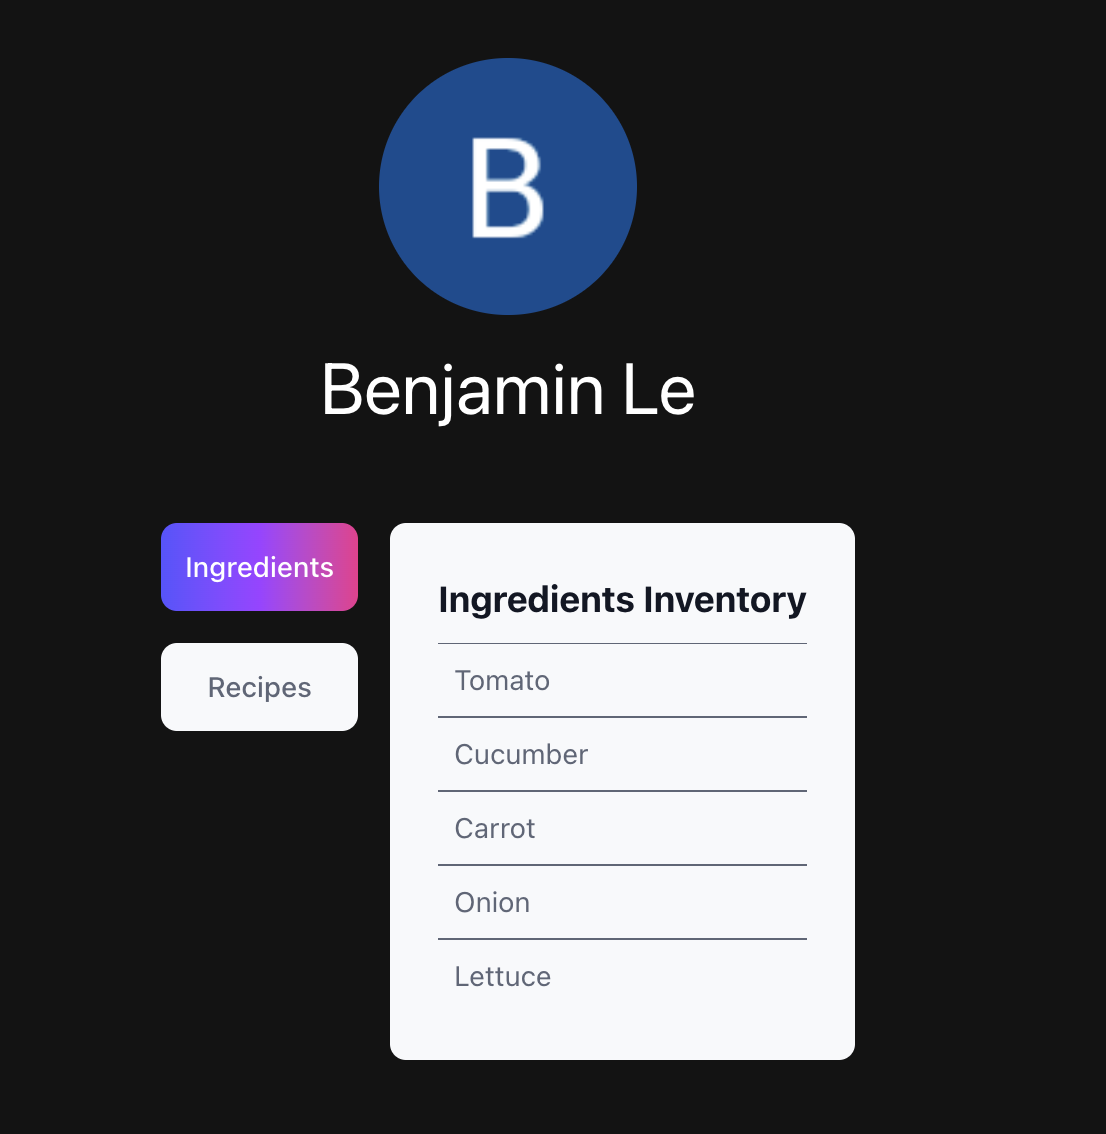
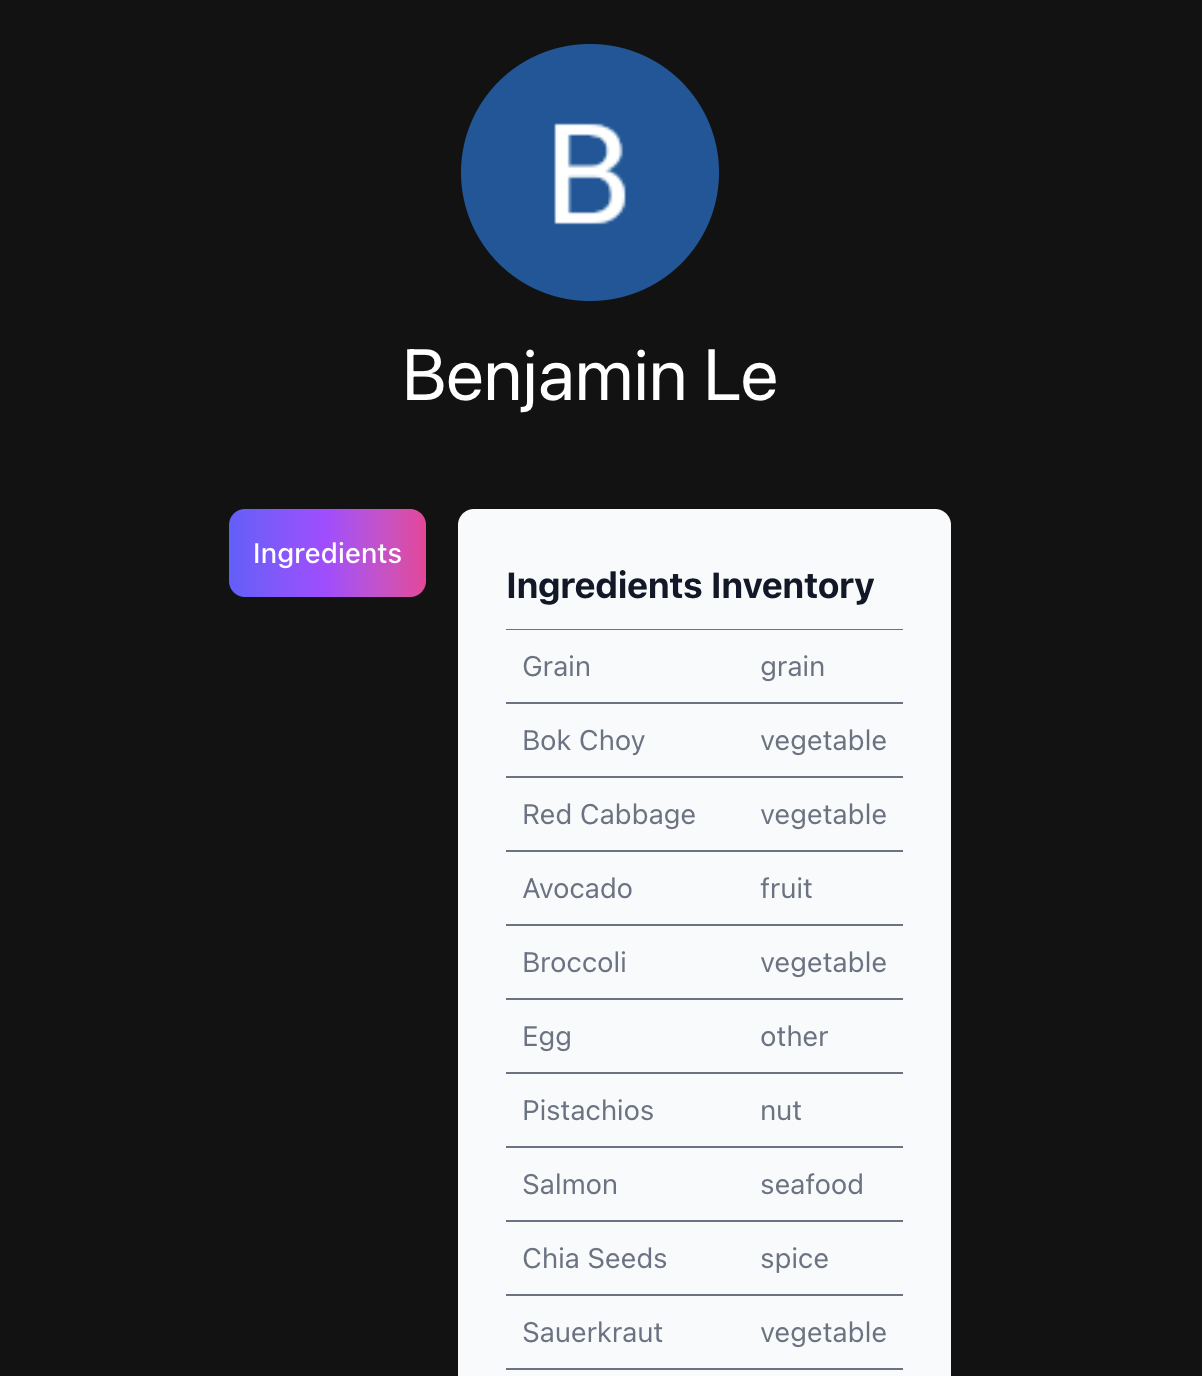
finishing touches

Changed region(s): [[0.123, 0.0309, 0.7993, 1.0], [0.6148, 0.7407, 0.7071, 0.7716]]

diff --git a/src/app/ProfilePage/page.tsx b/src/app/ProfilePage/page.tsx
@@ -13,13 +13,7 @@ import { useAtom } from "jotai"
 import { IngredientInventoryAtom } from "../ingredients/components/atoms"
 
 
-const recipes = [
-  { name: "Tomato Soup" },
-  { name: "Cucumber Salad" },
-  { name: "Carrot Cake" },
-  { name: "Onion Rings" },
-  { name: "Lettuce Wraps" },
-]
+
 
 const Profile = () => {
   const { user } = useAuth()
@@ -51,30 +45,14 @@ const Profile = () => {
       )
     }
 
-    if (selectedTab === "Recipes") {
-      return (
-        <Table>
-          <TableHeader>
-            <TableRow>
-            </TableRow>
-          </TableHeader>
-          <TableBody>
-            {recipes.map((recipe, index) => (
-              <TableRow key={index}>
-                <TableCell>{recipe.name}</TableCell>
-              </TableRow>
-            ))}
-          </TableBody>
-        </Table>
-      )
-    }
+    
 
     return null
   }
 
   return (
     <div className="flex items-center justify-center flex-col  w-full min-h-screen bg-[#121212]">
-      <div className="text-white flex flex-col items-center">
+      <div className="text-white flex flex-col items-center pt-[12vh]">
         <Avatar className="mb-4 size-[15vh]">
           <AvatarImage src={user?.photoURL || ''} alt="user image" />
           <AvatarFallback>
@@ -93,15 +71,6 @@ const Profile = () => {
               onClick={() => handleTabClick("Ingredients")}
             >
               Ingredients
-            </a>
-          </li>
-          <li className="w-full flex justify-center">
-            <a
-              href="#"
-              className={`justify-center inline-flex items-center px-3 py-3 rounded-lg w-full  ${selectedTab === "Recipes" ? "bg-gradient-to-r from-indigo-500 via-purple-500 to-pink-500 text-white" : "bg-gray-50 hover:bg-gray-100"}`}
-              onClick={() => handleTabClick("Recipes")}
-            >
-              Recipes
             </a>
           </li>
         </ul>

diff --git a/src/app/InAndOutPage/page.tsx b/src/app/InAndOutPage/page.tsx
@@ -19,7 +19,7 @@ const InAndOut = () => {
             </h5>
           </a>
           <p className="mb-3 font-bold text-white dark:text-gray-400">Our AI helper will create the most delicious recipes using just the ingredients available to you.</p>
-          <Link href="/InPage" className="inline-flex items-center px-3 py-2 text-sm font-medium text-center text-white bg-blue-700 rounded-lg hover:bg-blue-800 focus:ring-4 focus:outline-none focus:ring-blue-300 dark:bg-blue-600 dark:hover:bg-blue-700 dark:focus:ring-blue-800">
+          <Link href="/ingredients" className="inline-flex items-center px-3 py-2 text-sm font-medium text-center text-white bg-blue-700 rounded-lg hover:bg-blue-800 focus:ring-4 focus:outline-none focus:ring-blue-300 dark:bg-blue-600 dark:hover:bg-blue-700 dark:focus:ring-blue-800">
              Read more
             <svg className="rtl:rotate-180 w-3.5 h-3.5 ms-2" aria-hidden="true" xmlns="http://www.w3.org/2000/svg" fill="none" viewBox="0 0 14 10">
               <path stroke="currentColor" strokeLinecap="round" strokeLinejoin="round" strokeWidth="2" d="M1 5h12m0 0L9 1m4 4L9 9"/>

diff --git a/src/app/page.tsx b/src/app/page.tsx
@@ -28,7 +28,9 @@ export default function LandingPage() {
 
   const imagePaths = [
     "/Images/image1.png",
-    "/Images/image2.png"
+    "/Images/image2.png",
+    "/Images/image3.png",
+    "/Images/image4.png"
   ];
 
   return (
